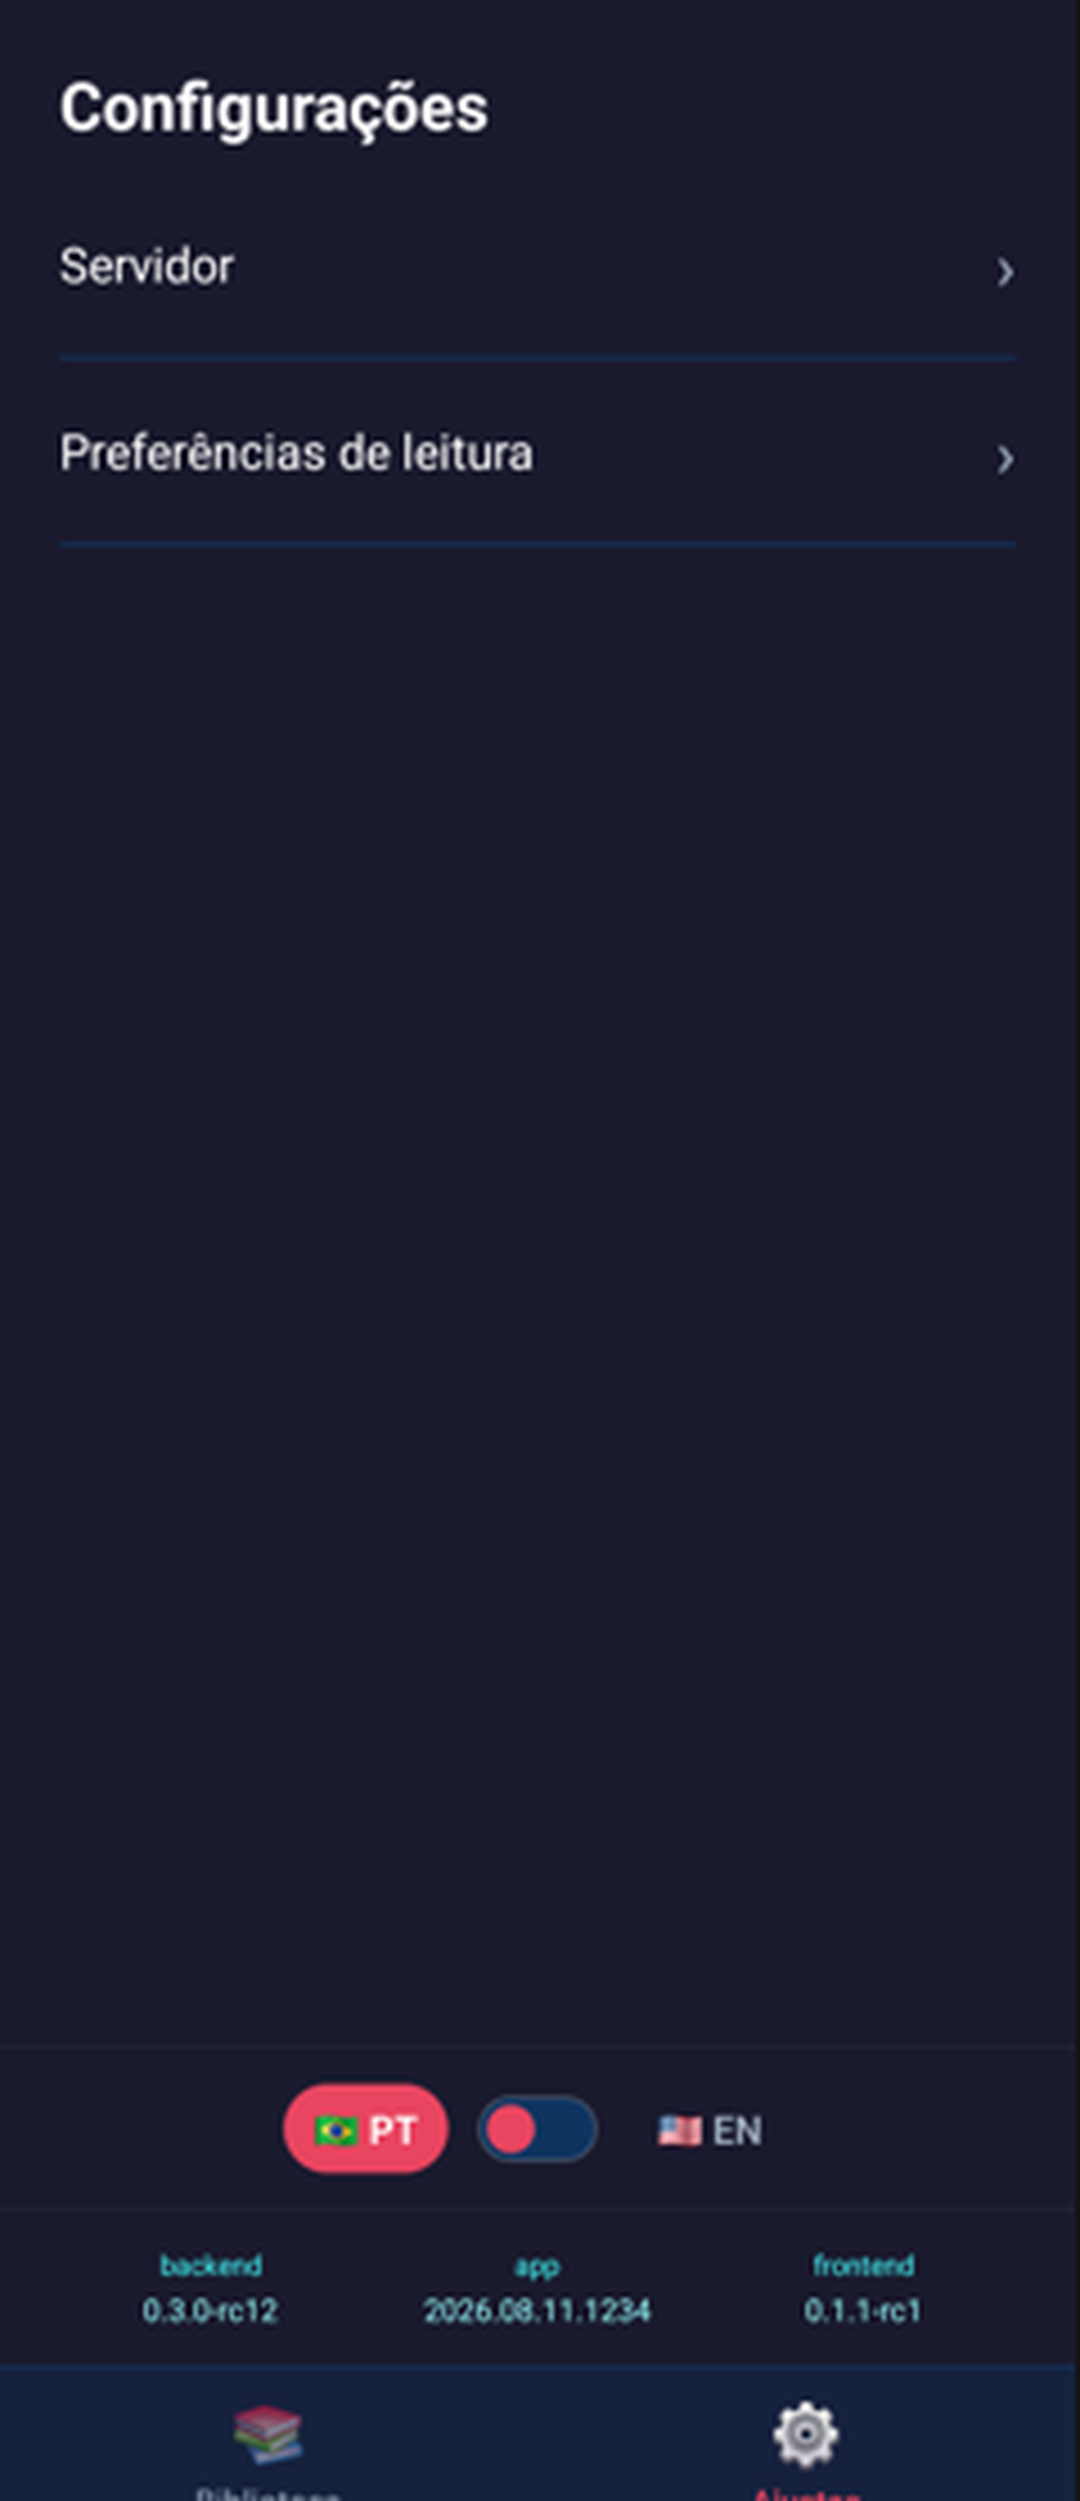
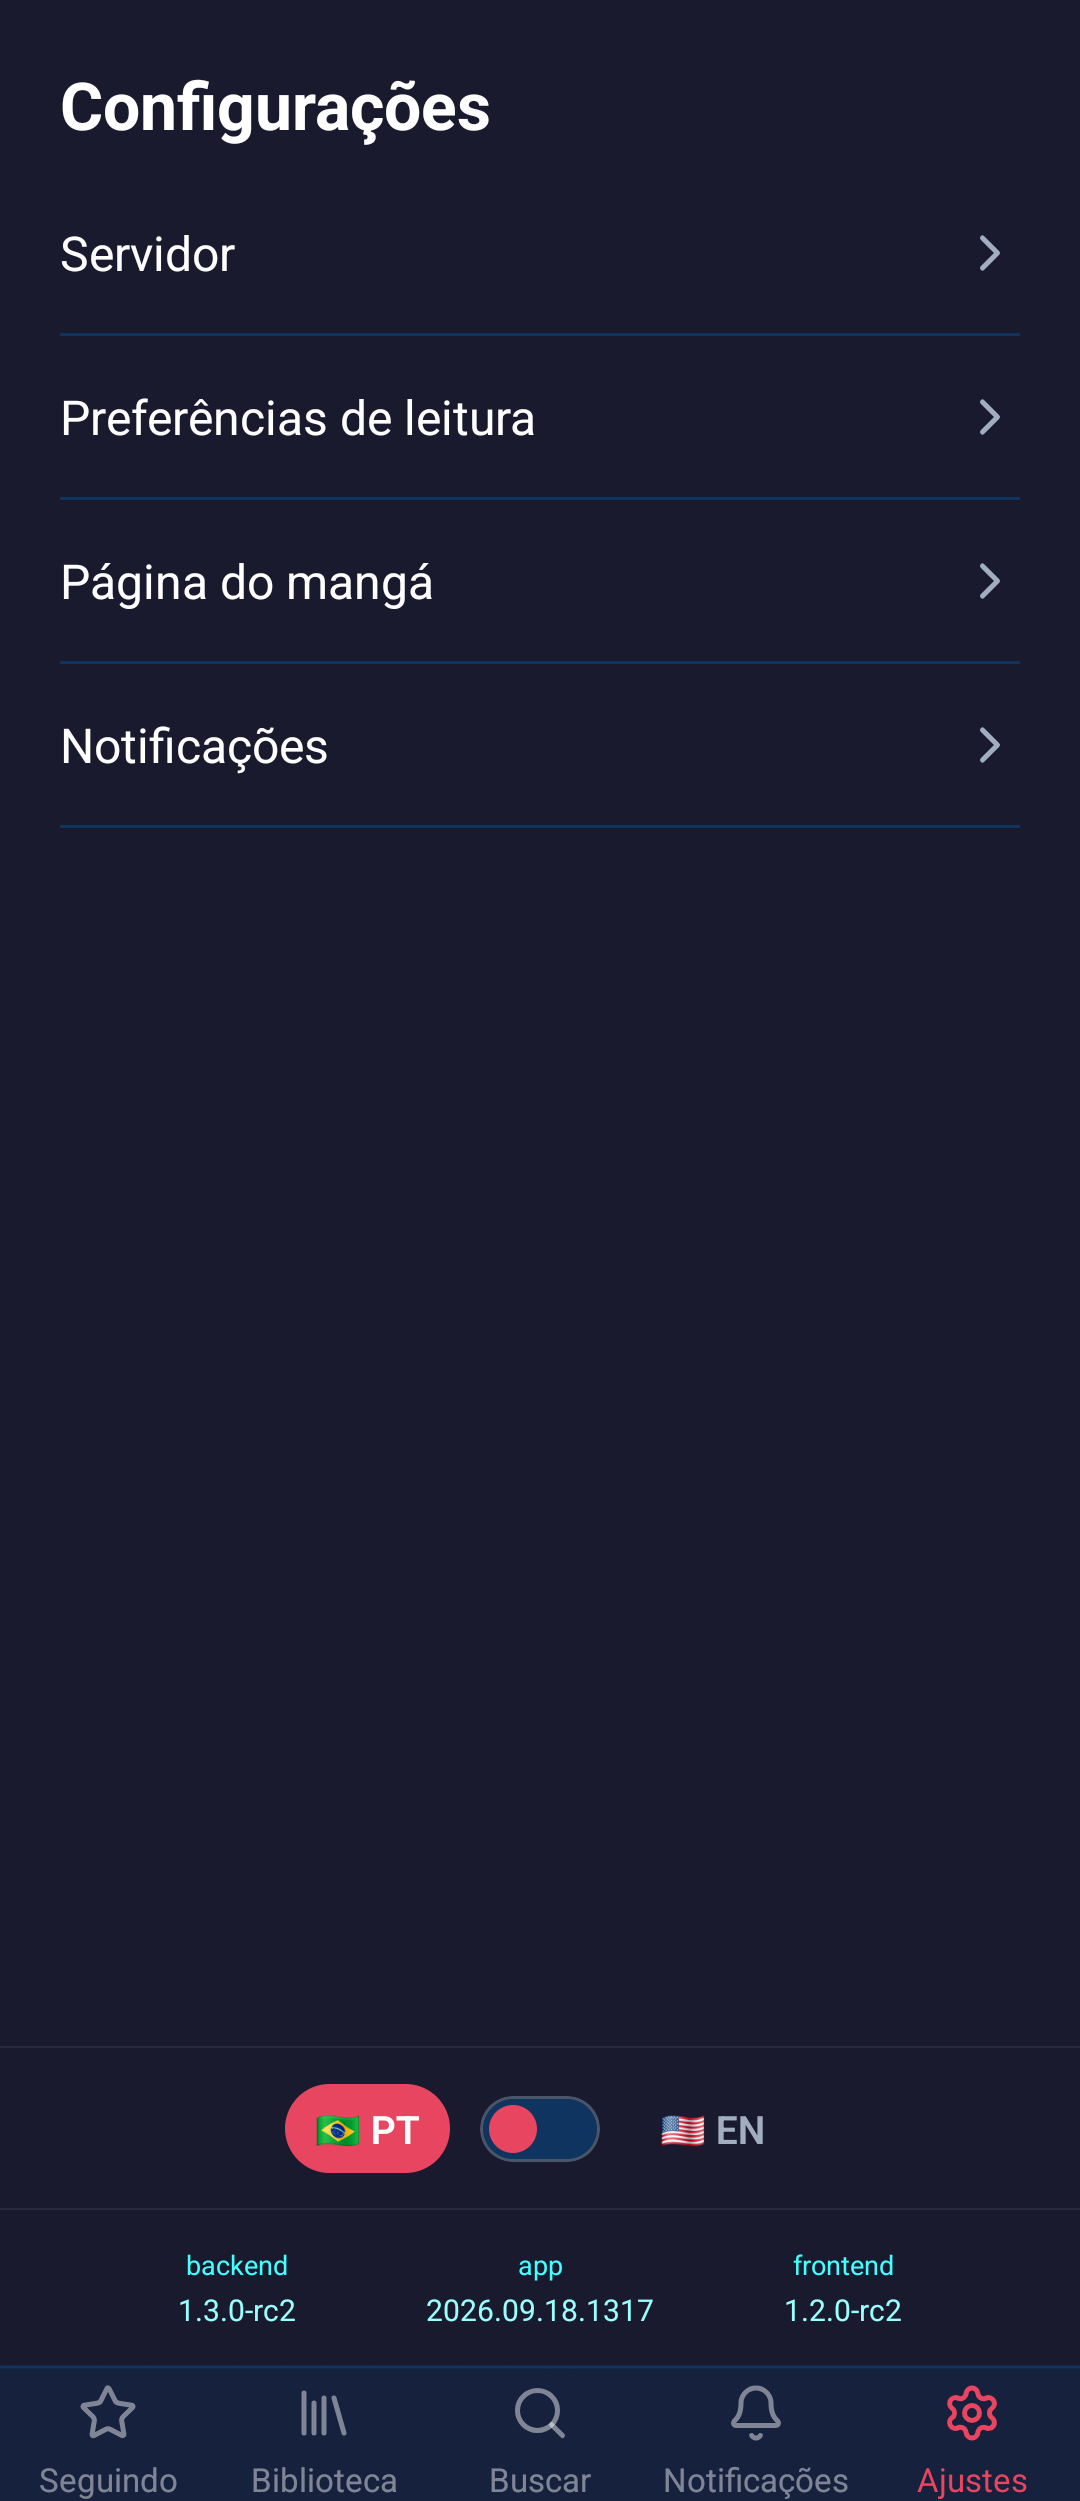
docs(screenshots): adiciona ajustes de notificacoes e atualiza o menu
- config-notifications.png: tela de ajustes de notificacoes (toggles,
  retencao do historico, servidores). As URLs reais foram substituidas
  por kavita.exemplo.local / push.exemplo.local / mangas.exemplo.local,
  o mesmo padrao das outras screenshots publicadas -- substituicao, nao
  borrao, para a tela continuar legivel
- config-main.png: menu de ajustes atualizado, agora com a entrada de
  Notificacoes
- o grid passa a mostrar a tela de notificacoes; as duas telas de
  ordenacao de capitulos viram uma so (diferiam apenas no modo
  selecionado) e a ultima linha fecha certa

diff --git a/scripts/build-screenshot-grid.py b/scripts/build-screenshot-grid.py
@@ -64,8 +64,8 @@ SECTIONS = [
         ("config-main.png", "Ajustes"),
         ("config-server.png", "Servidores"),
         ("config-reading-prefs.png", "Preferências de leitura"),
-        ("settings-chapter-sort-fixed.jpeg", "Ordenação (cap. limiar)"),
-        ("settings-chapter-sort-progress.jpeg", "Ordenação (% progresso)"),
+        ("config-notifications.png", "Notificações"),
+        ("settings-chapter-sort-fixed.jpeg", "Ordenação de capítulos"),
     ]),
 ]
 

diff --git a/docs/external/screenshots/INDEX.md b/docs/external/screenshots/INDEX.md
@@ -65,6 +65,7 @@ the file list and its captions live in that script, not here.
 | [config-main.png](config-main.png) | Settings root menu |
 | [config-main-2.png](config-main-2.png) | Server configuration screen |
 | [config-reading-prefs.png](config-reading-prefs.png) | Reading preferences screen |
+| [config-notifications.png](config-notifications.png) | Notification settings — toggles, history retention, notification servers |
 | [config-server.png](config-server.png) | Kavita + BFF server configuration |
 
 ## Welcome / Setup
